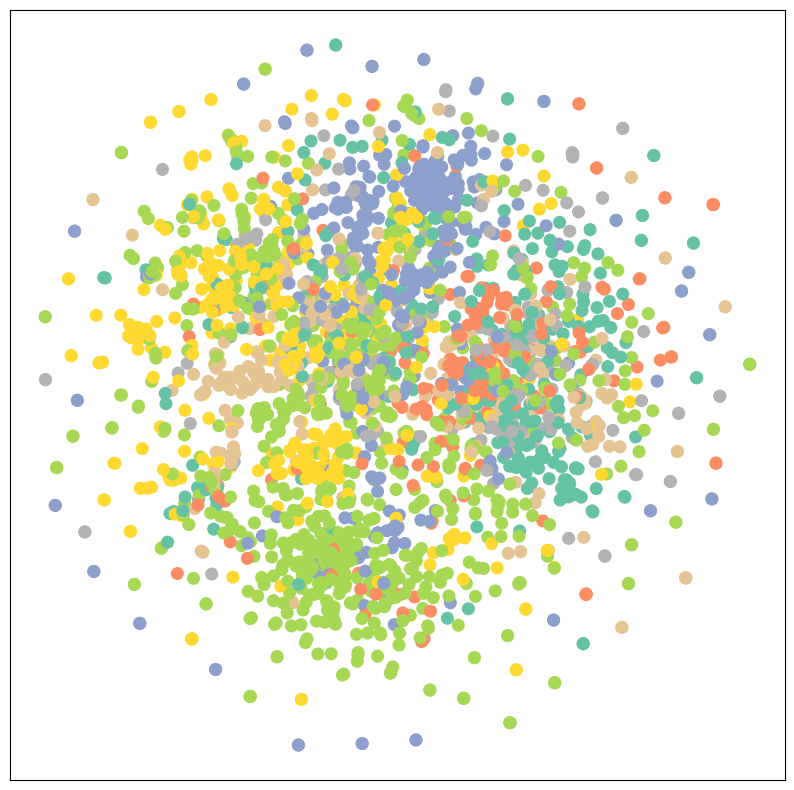
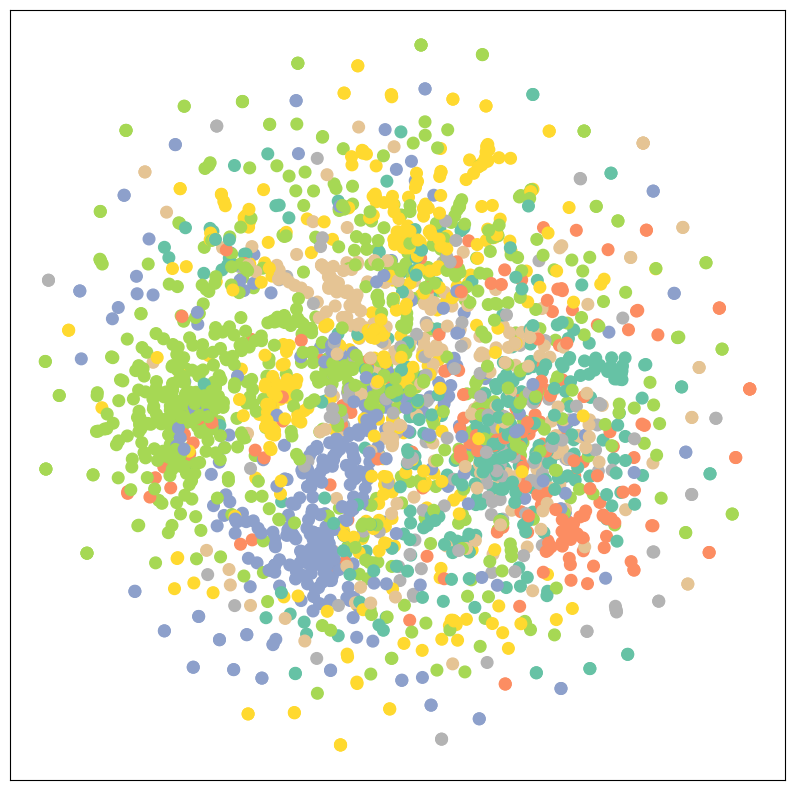
Built site for gh-pages

diff --git a/posts/2023-06-18-Graph-Convoluntional-Layer-from-scratch.html b/posts/2023-06-18-Graph-Convoluntional-Layer-from-scratch.html
@@ -197,9 +197,10 @@ pre > code.sourceCode > span > a:first-child::before { text-decoration: underlin
 
 
 
+<p>In this post I am implementing Graph Convolutional Layer</p>
 <section id="basic-imports" class="level1">
 <h1>Basic Imports</h1>
-<div class="cell" data-execution_count="14">
+<div class="cell" data-execution_count="1">
 <div class="sourceCode cell-code" id="cb1"><pre class="sourceCode python code-with-copy"><code class="sourceCode python"><span id="cb1-1"><a href="#cb1-1" aria-hidden="true" tabindex="-1"></a><span class="im">import</span> pandas <span class="im">as</span> pd</span>
 <span id="cb1-2"><a href="#cb1-2" aria-hidden="true" tabindex="-1"></a><span class="im">import</span> numpy <span class="im">as</span> np</span>
 <span id="cb1-3"><a href="#cb1-3" aria-hidden="true" tabindex="-1"></a><span class="im">import</span> matplotlib.pyplot <span class="im">as</span> plt</span>
@@ -220,10 +221,10 @@ pre > code.sourceCode > span > a:first-child::before { text-decoration: underlin
 </section>
 <section id="importing-planetoid-dataset---cora" class="level1">
 <h1>Importing Planetoid dataset - Cora</h1>
-<div class="cell" data-execution_count="15">
+<div class="cell" data-execution_count="2">
 <div class="sourceCode cell-code" id="cb2"><pre class="sourceCode python code-with-copy"><code class="sourceCode python"><span id="cb2-1"><a href="#cb2-1" aria-hidden="true" tabindex="-1"></a>dataset <span class="op">=</span> Planetoid(root<span class="op">=</span><span class="st">'data/Planetoid'</span>, name<span class="op">=</span><span class="st">'Cora'</span>)</span></code><button title="Copy to Clipboard" class="code-copy-button"><i class="bi"></i></button></pre></div>
 </div>
-<div class="cell" data-execution_count="40">
+<div class="cell" data-execution_count="3">
 <div class="sourceCode cell-code" id="cb3"><pre class="sourceCode python code-with-copy"><code class="sourceCode python"><span id="cb3-1"><a href="#cb3-1" aria-hidden="true" tabindex="-1"></a><span class="kw">def</span> visualize(h, color):</span>
 <span id="cb3-2"><a href="#cb3-2" aria-hidden="true" tabindex="-1"></a>    <span class="co"># Perform t-SNE dimensionality reduction</span></span>
 <span id="cb3-3"><a href="#cb3-3" aria-hidden="true" tabindex="-1"></a>    z <span class="op">=</span> TSNE(n_components<span class="op">=</span><span class="dv">2</span>).fit_transform(h.detach().cpu().numpy())</span>
@@ -238,13 +239,13 @@ pre > code.sourceCode > span > a:first-child::before { text-decoration: underlin
 </section>
 <section id="visulization-of-the-dataset" class="level1">
 <h1>Visulization of the dataset</h1>
-<div class="cell" data-execution_count="41">
+<div class="cell" data-execution_count="4">
 <div class="sourceCode cell-code" id="cb4"><pre class="sourceCode python code-with-copy"><code class="sourceCode python"><span id="cb4-1"><a href="#cb4-1" aria-hidden="true" tabindex="-1"></a>visualize(dataset[<span class="dv">0</span>].x, dataset[<span class="dv">0</span>].y)</span></code><button title="Copy to Clipboard" class="code-copy-button"><i class="bi"></i></button></pre></div>
 <div class="cell-output cell-output-display">
 <p><img src="2023-06-18-Graph-Convoluntional-Layer-from-scratch_files/figure-html/cell-5-output-1.png" class="img-fluid"></p>
 </div>
 </div>
-<div class="cell" data-execution_count="19">
+<div class="cell" data-execution_count="5">
 <div class="sourceCode cell-code" id="cb5"><pre class="sourceCode python code-with-copy"><code class="sourceCode python"><span id="cb5-1"><a href="#cb5-1" aria-hidden="true" tabindex="-1"></a><span class="co"># convert pytorch tensor to networkx graph</span></span>
 <span id="cb5-2"><a href="#cb5-2" aria-hidden="true" tabindex="-1"></a><span class="kw">def</span> to_networkx(data):</span>
 <span id="cb5-3"><a href="#cb5-3" aria-hidden="true" tabindex="-1"></a>    G <span class="op">=</span> nx.Graph()</span>
@@ -252,13 +253,13 @@ pre > code.sourceCode > span > a:first-child::before { text-decoration: underlin
 <span id="cb5-5"><a href="#cb5-5" aria-hidden="true" tabindex="-1"></a>    G.add_edges_from(data.edge_index.t().tolist())</span>
 <span id="cb5-6"><a href="#cb5-6" aria-hidden="true" tabindex="-1"></a>    <span class="cf">return</span> G</span></code><button title="Copy to Clipboard" class="code-copy-button"><i class="bi"></i></button></pre></div>
 </div>
-<div class="cell" data-execution_count="20">
+<div class="cell" data-execution_count="6">
 <div class="sourceCode cell-code" id="cb6"><pre class="sourceCode python code-with-copy"><code class="sourceCode python"><span id="cb6-1"><a href="#cb6-1" aria-hidden="true" tabindex="-1"></a>G <span class="op">=</span> to_networkx(dataset[<span class="dv">0</span>])</span></code><button title="Copy to Clipboard" class="code-copy-button"><i class="bi"></i></button></pre></div>
 </div>
 </section>
 <section id="creating-the-adjacency-matrix" class="level1">
 <h1>Creating the Adjacency Matrix</h1>
-<div class="cell" data-execution_count="23">
+<div class="cell" data-execution_count="7">
 <div class="sourceCode cell-code" id="cb7"><pre class="sourceCode python code-with-copy"><code class="sourceCode python"><span id="cb7-1"><a href="#cb7-1" aria-hidden="true" tabindex="-1"></a><span class="co"># Adjacency matrix</span></span>
 <span id="cb7-2"><a href="#cb7-2" aria-hidden="true" tabindex="-1"></a>A <span class="op">=</span> nx.adjacency_matrix(G).todense()</span>
 <span id="cb7-3"><a href="#cb7-3" aria-hidden="true" tabindex="-1"></a>A <span class="op">=</span> torch.tensor(A, dtype<span class="op">=</span>torch.<span class="bu">float</span>)</span></code><button title="Copy to Clipboard" class="code-copy-button"><i class="bi"></i></button></pre></div>
@@ -269,7 +270,7 @@ pre > code.sourceCode > span > a:first-child::before { text-decoration: underlin
 <p>The GCN layer is defined as follows:</p>
 <p><span class="math inline">\({H}^{(l+1)} = \sigma \left( \mathbf{D}^{-\frac{1}{2}} {\mathbf{\hat{A}}}  \mathbf{D}^{-\frac{1}{2}} \mathbf{H}^{(l)} \mathbf{W}^{(l)} \right)\)</span></p>
 <p>where <span class="math inline">\(\mathbf{H}^{(l)}\)</span> is the <span class="math inline">\(l^{th}\)</span> layer of the GCN, <span class="math inline">\(\mathbf{A}\)</span> is the adjacency matrix, <span class="math inline">\({\mathbf{\hat{A}}}\)</span> is the adjacency matrix with self-connections added, <span class="math inline">\(\mathbf{D}\)</span> is the degree matrix, and <span class="math inline">\(\mathbf{W}^{(l)}\)</span> is the weight matrix for the <span class="math inline">\(l^{th}\)</span> layer.</p>
-<div class="cell" data-execution_count="25">
+<div class="cell" data-execution_count="8">
 <div class="sourceCode cell-code" id="cb8"><pre class="sourceCode python code-with-copy"><code class="sourceCode python"><span id="cb8-1"><a href="#cb8-1" aria-hidden="true" tabindex="-1"></a><span class="kw">class</span> GCN_Layer(nn.Module):</span>
 <span id="cb8-2"><a href="#cb8-2" aria-hidden="true" tabindex="-1"></a>    <span class="kw">def</span> <span class="fu">__init__</span>(<span class="va">self</span>, in_features, out_features):</span>
 <span id="cb8-3"><a href="#cb8-3" aria-hidden="true" tabindex="-1"></a>        <span class="bu">super</span>(GCN_Layer, <span class="va">self</span>).<span class="fu">__init__</span>()</span>
@@ -288,7 +289,7 @@ pre > code.sourceCode > span > a:first-child::before { text-decoration: underlin
 <section id="creating-the-model" class="level1">
 <h1>Creating the model</h1>
 <p>The model consists of two GCN layers and a linear layer for the output. We have used ReLU as the activation function.</p>
-<div class="cell" data-execution_count="33">
+<div class="cell" data-execution_count="9">
 <div class="sourceCode cell-code" id="cb9"><pre class="sourceCode python code-with-copy"><code class="sourceCode python"><span id="cb9-1"><a href="#cb9-1" aria-hidden="true" tabindex="-1"></a><span class="kw">class</span> GNNModel(nn.Module):</span>
 <span id="cb9-2"><a href="#cb9-2" aria-hidden="true" tabindex="-1"></a>    <span class="kw">def</span> <span class="fu">__init__</span>(<span class="va">self</span>, in_features, out_features, classes):</span>
 <span id="cb9-3"><a href="#cb9-3" aria-hidden="true" tabindex="-1"></a>        <span class="bu">super</span>(GNNModel, <span class="va">self</span>).<span class="fu">__init__</span>()</span>
@@ -307,9 +308,9 @@ pre > code.sourceCode > span > a:first-child::before { text-decoration: underlin
 </section>
 <section id="training-the-model" class="level1">
 <h1>Training the model</h1>
-<div class="cell" data-execution_count="51">
-<div class="sourceCode cell-code" id="cb10"><pre class="sourceCode python code-with-copy"><code class="sourceCode python"><span id="cb10-1"><a href="#cb10-1" aria-hidden="true" tabindex="-1"></a>X <span class="op">=</span> torch.tensor(dataset[<span class="dv">0</span>].x, dtype<span class="op">=</span>torch.<span class="bu">float</span>)</span>
-<span id="cb10-2"><a href="#cb10-2" aria-hidden="true" tabindex="-1"></a>y <span class="op">=</span> torch.tensor(dataset[<span class="dv">0</span>].y, dtype<span class="op">=</span>torch.<span class="bu">long</span>)</span>
+<div class="cell" data-execution_count="10">
+<div class="sourceCode cell-code" id="cb10"><pre class="sourceCode python code-with-copy"><code class="sourceCode python"><span id="cb10-1"><a href="#cb10-1" aria-hidden="true" tabindex="-1"></a>X <span class="op">=</span> dataset[<span class="dv">0</span>].x</span>
+<span id="cb10-2"><a href="#cb10-2" aria-hidden="true" tabindex="-1"></a>y <span class="op">=</span> dataset[<span class="dv">0</span>].y</span>
 <span id="cb10-3"><a href="#cb10-3" aria-hidden="true" tabindex="-1"></a>in_features <span class="op">=</span> X.shape[<span class="dv">1</span>]  <span class="co"># Number of input features</span></span>
 <span id="cb10-4"><a href="#cb10-4" aria-hidden="true" tabindex="-1"></a>hidden_dim <span class="op">=</span> <span class="dv">64</span>  <span class="co"># Number of hidden features</span></span>
 <span id="cb10-5"><a href="#cb10-5" aria-hidden="true" tabindex="-1"></a>classes <span class="op">=</span> <span class="dv">7</span>  <span class="co"># Number of classes</span></span>
@@ -336,122 +337,116 @@ pre > code.sourceCode > span > a:first-child::before { text-decoration: underlin
 <span id="cb10-26"><a href="#cb10-26" aria-hidden="true" tabindex="-1"></a>    <span class="co"># Print the loss and accuracy for monitoring</span></span>
 <span id="cb10-27"><a href="#cb10-27" aria-hidden="true" tabindex="-1"></a>    <span class="cf">if</span> (epoch <span class="op">+</span> <span class="dv">1</span>) <span class="op">%</span> <span class="dv">1</span> <span class="op">==</span> <span class="dv">0</span>:</span>
 <span id="cb10-28"><a href="#cb10-28" aria-hidden="true" tabindex="-1"></a>        <span class="bu">print</span>(<span class="ss">f'Epoch [</span><span class="sc">{</span>epoch<span class="op">+</span><span class="dv">1</span><span class="sc">}</span><span class="ss">/</span><span class="sc">{</span>num_epochs<span class="sc">}</span><span class="ss">], Loss: </span><span class="sc">{</span>loss<span class="sc">.</span>item()<span class="sc">:.4f}</span><span class="ss">, Accuracy: </span><span class="sc">{</span>accuracy<span class="sc">.</span>item()<span class="sc">:.4f}</span><span class="ss">'</span>)</span></code><button title="Copy to Clipboard" class="code-copy-button"><i class="bi"></i></button></pre></div>
-<div class="cell-output cell-output-stderr">
-<pre><code>/tmp/ipykernel_18480/3700216626.py:1: UserWarning: To copy construct from a tensor, it is recommended to use sourceTensor.clone().detach() or sourceTensor.clone().detach().requires_grad_(True), rather than torch.tensor(sourceTensor).
-  X = torch.tensor(dataset[0].x, dtype=torch.float)
-/tmp/ipykernel_18480/3700216626.py:2: UserWarning: To copy construct from a tensor, it is recommended to use sourceTensor.clone().detach() or sourceTensor.clone().detach().requires_grad_(True), rather than torch.tensor(sourceTensor).
-  y = torch.tensor(dataset[0].y, dtype=torch.long)</code></pre>
-</div>
 <div class="cell-output cell-output-stdout">
-<pre><code>Epoch [1/100], Loss: 1.9451, Accuracy: 0.1544
-Epoch [2/100], Loss: 1.9375, Accuracy: 0.2585
-Epoch [3/100], Loss: 1.9232, Accuracy: 0.3386
-Epoch [4/100], Loss: 1.8973, Accuracy: 0.3032
-Epoch [5/100], Loss: 1.8595, Accuracy: 0.3024
-Epoch [6/100], Loss: 1.8221, Accuracy: 0.3021
-Epoch [7/100], Loss: 1.7975, Accuracy: 0.3024
-Epoch [8/100], Loss: 1.7573, Accuracy: 0.3619
-Epoch [9/100], Loss: 1.6980, Accuracy: 0.4996
-Epoch [10/100], Loss: 1.6558, Accuracy: 0.5971
-Epoch [11/100], Loss: 1.6148, Accuracy: 0.6300
-Epoch [12/100], Loss: 1.5620, Accuracy: 0.6713
-Epoch [13/100], Loss: 1.5196, Accuracy: 0.6961
-Epoch [14/100], Loss: 1.4932, Accuracy: 0.7212
-Epoch [15/100], Loss: 1.4673, Accuracy: 0.7430
-Epoch [16/100], Loss: 1.4392, Accuracy: 0.7633
-Epoch [17/100], Loss: 1.4154, Accuracy: 0.7722
-Epoch [18/100], Loss: 1.4006, Accuracy: 0.7762
-Epoch [19/100], Loss: 1.3909, Accuracy: 0.7766
-Epoch [20/100], Loss: 1.3782, Accuracy: 0.7884
-Epoch [21/100], Loss: 1.3642, Accuracy: 0.8209
-Epoch [22/100], Loss: 1.3541, Accuracy: 0.8401
-Epoch [23/100], Loss: 1.3437, Accuracy: 0.8431
-Epoch [24/100], Loss: 1.3326, Accuracy: 0.8468
-Epoch [25/100], Loss: 1.3253, Accuracy: 0.8490
-Epoch [26/100], Loss: 1.3207, Accuracy: 0.8479
-Epoch [27/100], Loss: 1.3164, Accuracy: 0.8527
-Epoch [28/100], Loss: 1.3126, Accuracy: 0.8545
-Epoch [29/100], Loss: 1.3102, Accuracy: 0.8564
-Epoch [30/100], Loss: 1.3076, Accuracy: 0.8586
-Epoch [31/100], Loss: 1.3045, Accuracy: 0.8634
-Epoch [32/100], Loss: 1.3019, Accuracy: 0.8648
-Epoch [33/100], Loss: 1.3002, Accuracy: 0.8671
-Epoch [34/100], Loss: 1.2982, Accuracy: 0.8674
-Epoch [35/100], Loss: 1.2962, Accuracy: 0.8693
-Epoch [36/100], Loss: 1.2948, Accuracy: 0.8704
-Epoch [37/100], Loss: 1.2928, Accuracy: 0.8719
-Epoch [38/100], Loss: 1.2893, Accuracy: 0.8741
-Epoch [39/100], Loss: 1.2820, Accuracy: 0.8848
-Epoch [40/100], Loss: 1.2654, Accuracy: 0.9066
-Epoch [41/100], Loss: 1.2517, Accuracy: 0.9206
-Epoch [42/100], Loss: 1.2573, Accuracy: 0.9147
-Epoch [43/100], Loss: 1.2534, Accuracy: 0.9202
-Epoch [44/100], Loss: 1.2437, Accuracy: 0.9287
-Epoch [45/100], Loss: 1.2401, Accuracy: 0.9306
-Epoch [46/100], Loss: 1.2376, Accuracy: 0.9321
-Epoch [47/100], Loss: 1.2363, Accuracy: 0.9324
-Epoch [48/100], Loss: 1.2352, Accuracy: 0.9350
-Epoch [49/100], Loss: 1.2325, Accuracy: 0.9376
-Epoch [50/100], Loss: 1.2295, Accuracy: 0.9394
-Epoch [51/100], Loss: 1.2271, Accuracy: 0.9413
-Epoch [52/100], Loss: 1.2255, Accuracy: 0.9420
-Epoch [53/100], Loss: 1.2252, Accuracy: 0.9424
-Epoch [54/100], Loss: 1.2252, Accuracy: 0.9424
-Epoch [55/100], Loss: 1.2231, Accuracy: 0.9457
-Epoch [56/100], Loss: 1.2214, Accuracy: 0.9468
-Epoch [57/100], Loss: 1.2211, Accuracy: 0.9468
-Epoch [58/100], Loss: 1.2209, Accuracy: 0.9468
-Epoch [59/100], Loss: 1.2200, Accuracy: 0.9479
-Epoch [60/100], Loss: 1.2188, Accuracy: 0.9490
-Epoch [61/100], Loss: 1.2185, Accuracy: 0.9494
-Epoch [62/100], Loss: 1.2184, Accuracy: 0.9501
-Epoch [63/100], Loss: 1.2179, Accuracy: 0.9501
-Epoch [64/100], Loss: 1.2170, Accuracy: 0.9505
-Epoch [65/100], Loss: 1.2165, Accuracy: 0.9505
-Epoch [66/100], Loss: 1.2164, Accuracy: 0.9505
-Epoch [67/100], Loss: 1.2162, Accuracy: 0.9505
-Epoch [68/100], Loss: 1.2159, Accuracy: 0.9509
-Epoch [69/100], Loss: 1.2156, Accuracy: 0.9509
-Epoch [70/100], Loss: 1.2153, Accuracy: 0.9516
-Epoch [71/100], Loss: 1.2151, Accuracy: 0.9520
-Epoch [72/100], Loss: 1.2148, Accuracy: 0.9520
-Epoch [73/100], Loss: 1.2147, Accuracy: 0.9520
-Epoch [74/100], Loss: 1.2145, Accuracy: 0.9516
-Epoch [75/100], Loss: 1.2143, Accuracy: 0.9520
-Epoch [76/100], Loss: 1.2142, Accuracy: 0.9520
-Epoch [77/100], Loss: 1.2140, Accuracy: 0.9520
-Epoch [78/100], Loss: 1.2139, Accuracy: 0.9520
-Epoch [79/100], Loss: 1.2137, Accuracy: 0.9520
-Epoch [80/100], Loss: 1.2136, Accuracy: 0.9520
-Epoch [81/100], Loss: 1.2134, Accuracy: 0.9524
-Epoch [82/100], Loss: 1.2132, Accuracy: 0.9531
-Epoch [83/100], Loss: 1.2130, Accuracy: 0.9535
-Epoch [84/100], Loss: 1.2128, Accuracy: 0.9535
-Epoch [85/100], Loss: 1.2126, Accuracy: 0.9531
-Epoch [86/100], Loss: 1.2126, Accuracy: 0.9531
-Epoch [87/100], Loss: 1.2125, Accuracy: 0.9538
-Epoch [88/100], Loss: 1.2125, Accuracy: 0.9538
-Epoch [89/100], Loss: 1.2124, Accuracy: 0.9535
-Epoch [90/100], Loss: 1.2123, Accuracy: 0.9535
-Epoch [91/100], Loss: 1.2123, Accuracy: 0.9535
-Epoch [92/100], Loss: 1.2122, Accuracy: 0.9535
-Epoch [93/100], Loss: 1.2121, Accuracy: 0.9535
-Epoch [94/100], Loss: 1.2120, Accuracy: 0.9538
-Epoch [95/100], Loss: 1.2120, Accuracy: 0.9538
-Epoch [96/100], Loss: 1.2119, Accuracy: 0.9538
-Epoch [97/100], Loss: 1.2118, Accuracy: 0.9542
-Epoch [98/100], Loss: 1.2117, Accuracy: 0.9542
-Epoch [99/100], Loss: 1.2116, Accuracy: 0.9542
-Epoch [100/100], Loss: 1.2115, Accuracy: 0.9542</code></pre>
+<pre><code>Epoch [1/100], Loss: 1.9459, Accuracy: 0.0702
+Epoch [2/100], Loss: 1.9383, Accuracy: 0.3316
+Epoch [3/100], Loss: 1.9238, Accuracy: 0.3024
+Epoch [4/100], Loss: 1.8966, Accuracy: 0.3021
+Epoch [5/100], Loss: 1.8567, Accuracy: 0.3021
+Epoch [6/100], Loss: 1.8174, Accuracy: 0.3021
+Epoch [7/100], Loss: 1.7879, Accuracy: 0.3024
+Epoch [8/100], Loss: 1.7328, Accuracy: 0.4346
+Epoch [9/100], Loss: 1.6781, Accuracy: 0.5835
+Epoch [10/100], Loss: 1.6422, Accuracy: 0.5735
+Epoch [11/100], Loss: 1.5881, Accuracy: 0.6141
+Epoch [12/100], Loss: 1.5457, Accuracy: 0.6647
+Epoch [13/100], Loss: 1.5212, Accuracy: 0.6747
+Epoch [14/100], Loss: 1.5006, Accuracy: 0.6765
+Epoch [15/100], Loss: 1.4805, Accuracy: 0.6839
+Epoch [16/100], Loss: 1.4607, Accuracy: 0.6994
+Epoch [17/100], Loss: 1.4392, Accuracy: 0.7448
+Epoch [18/100], Loss: 1.4178, Accuracy: 0.7744
+Epoch [19/100], Loss: 1.4071, Accuracy: 0.7740
+Epoch [20/100], Loss: 1.4041, Accuracy: 0.7707
+Epoch [21/100], Loss: 1.3950, Accuracy: 0.7758
+Epoch [22/100], Loss: 1.3820, Accuracy: 0.7855
+Epoch [23/100], Loss: 1.3722, Accuracy: 0.7954
+Epoch [24/100], Loss: 1.3673, Accuracy: 0.7939
+Epoch [25/100], Loss: 1.3631, Accuracy: 0.7984
+Epoch [26/100], Loss: 1.3546, Accuracy: 0.8102
+Epoch [27/100], Loss: 1.3429, Accuracy: 0.8312
+Epoch [28/100], Loss: 1.3326, Accuracy: 0.8475
+Epoch [29/100], Loss: 1.3278, Accuracy: 0.8471
+Epoch [30/100], Loss: 1.3254, Accuracy: 0.8504
+Epoch [31/100], Loss: 1.3180, Accuracy: 0.8512
+Epoch [32/100], Loss: 1.3070, Accuracy: 0.8634
+Epoch [33/100], Loss: 1.2922, Accuracy: 0.8911
+Epoch [34/100], Loss: 1.2784, Accuracy: 0.9044
+Epoch [35/100], Loss: 1.2733, Accuracy: 0.9114
+Epoch [36/100], Loss: 1.2694, Accuracy: 0.9114
+Epoch [37/100], Loss: 1.2593, Accuracy: 0.9202
+Epoch [38/100], Loss: 1.2501, Accuracy: 0.9258
+Epoch [39/100], Loss: 1.2448, Accuracy: 0.9302
+Epoch [40/100], Loss: 1.2408, Accuracy: 0.9321
+Epoch [41/100], Loss: 1.2374, Accuracy: 0.9346
+Epoch [42/100], Loss: 1.2349, Accuracy: 0.9361
+Epoch [43/100], Loss: 1.2327, Accuracy: 0.9369
+Epoch [44/100], Loss: 1.2304, Accuracy: 0.9394
+Epoch [45/100], Loss: 1.2284, Accuracy: 0.9417
+Epoch [46/100], Loss: 1.2271, Accuracy: 0.9428
+Epoch [47/100], Loss: 1.2264, Accuracy: 0.9424
+Epoch [48/100], Loss: 1.2256, Accuracy: 0.9428
+Epoch [49/100], Loss: 1.2243, Accuracy: 0.9435
+Epoch [50/100], Loss: 1.2225, Accuracy: 0.9457
+Epoch [51/100], Loss: 1.2208, Accuracy: 0.9472
+Epoch [52/100], Loss: 1.2198, Accuracy: 0.9490
+Epoch [53/100], Loss: 1.2187, Accuracy: 0.9501
+Epoch [54/100], Loss: 1.2178, Accuracy: 0.9509
+Epoch [55/100], Loss: 1.2170, Accuracy: 0.9520
+Epoch [56/100], Loss: 1.2161, Accuracy: 0.9531
+Epoch [57/100], Loss: 1.2150, Accuracy: 0.9549
+Epoch [58/100], Loss: 1.2143, Accuracy: 0.9549
+Epoch [59/100], Loss: 1.2135, Accuracy: 0.9553
+Epoch [60/100], Loss: 1.2129, Accuracy: 0.9564
+Epoch [61/100], Loss: 1.2123, Accuracy: 0.9572
+Epoch [62/100], Loss: 1.2116, Accuracy: 0.9572
+Epoch [63/100], Loss: 1.2110, Accuracy: 0.9575
+Epoch [64/100], Loss: 1.2104, Accuracy: 0.9579
+Epoch [65/100], Loss: 1.2096, Accuracy: 0.9586
+Epoch [66/100], Loss: 1.2092, Accuracy: 0.9594
+Epoch [67/100], Loss: 1.2087, Accuracy: 0.9594
+Epoch [68/100], Loss: 1.2083, Accuracy: 0.9594
+Epoch [69/100], Loss: 1.2079, Accuracy: 0.9601
+Epoch [70/100], Loss: 1.2076, Accuracy: 0.9597
+Epoch [71/100], Loss: 1.2073, Accuracy: 0.9601
+Epoch [72/100], Loss: 1.2070, Accuracy: 0.9601
+Epoch [73/100], Loss: 1.2067, Accuracy: 0.9605
+Epoch [74/100], Loss: 1.2065, Accuracy: 0.9605
+Epoch [75/100], Loss: 1.2063, Accuracy: 0.9609
+Epoch [76/100], Loss: 1.2061, Accuracy: 0.9612
+Epoch [77/100], Loss: 1.2060, Accuracy: 0.9612
+Epoch [78/100], Loss: 1.2058, Accuracy: 0.9612
+Epoch [79/100], Loss: 1.2057, Accuracy: 0.9612
+Epoch [80/100], Loss: 1.2054, Accuracy: 0.9616
+Epoch [81/100], Loss: 1.2053, Accuracy: 0.9616
+Epoch [82/100], Loss: 1.2051, Accuracy: 0.9616
+Epoch [83/100], Loss: 1.2050, Accuracy: 0.9616
+Epoch [84/100], Loss: 1.2050, Accuracy: 0.9616
+Epoch [85/100], Loss: 1.2049, Accuracy: 0.9616
+Epoch [86/100], Loss: 1.2049, Accuracy: 0.9616
+Epoch [87/100], Loss: 1.2048, Accuracy: 0.9616
+Epoch [88/100], Loss: 1.2047, Accuracy: 0.9616
+Epoch [89/100], Loss: 1.2046, Accuracy: 0.9616
+Epoch [90/100], Loss: 1.2044, Accuracy: 0.9616
+Epoch [91/100], Loss: 1.2042, Accuracy: 0.9623
+Epoch [92/100], Loss: 1.2041, Accuracy: 0.9620
+Epoch [93/100], Loss: 1.2041, Accuracy: 0.9620
+Epoch [94/100], Loss: 1.2040, Accuracy: 0.9620
+Epoch [95/100], Loss: 1.2039, Accuracy: 0.9623
+Epoch [96/100], Loss: 1.2038, Accuracy: 0.9627
+Epoch [97/100], Loss: 1.2037, Accuracy: 0.9627
+Epoch [98/100], Loss: 1.2036, Accuracy: 0.9627
+Epoch [99/100], Loss: 1.2036, Accuracy: 0.9627
+Epoch [100/100], Loss: 1.2036, Accuracy: 0.9627</code></pre>
 </div>
 </div>
-<div class="cell" data-execution_count="52">
-<div class="sourceCode cell-code" id="cb13"><pre class="sourceCode python code-with-copy"><code class="sourceCode python"><span id="cb13-1"><a href="#cb13-1" aria-hidden="true" tabindex="-1"></a>output <span class="op">=</span> gcn_layer(A, X)</span>
-<span id="cb13-2"><a href="#cb13-2" aria-hidden="true" tabindex="-1"></a>y_pred <span class="op">=</span> output.argmax(dim<span class="op">=</span><span class="dv">1</span>)</span>
-<span id="cb13-3"><a href="#cb13-3" aria-hidden="true" tabindex="-1"></a>y <span class="op">=</span> dataset[<span class="dv">0</span>].y</span>
-<span id="cb13-4"><a href="#cb13-4" aria-hidden="true" tabindex="-1"></a><span class="bu">print</span>(<span class="ss">f'Accuracy of GCN model: </span><span class="sc">{</span><span class="bu">float</span>(((y <span class="op">==</span> y_pred).<span class="bu">sum</span>()) <span class="op">/</span> <span class="bu">len</span>(y))<span class="op">*</span><span class="dv">100</span><span class="sc">}</span><span class="ss">'</span>)</span></code><button title="Copy to Clipboard" class="code-copy-button"><i class="bi"></i></button></pre></div>
+<div class="cell" data-execution_count="11">
+<div class="sourceCode cell-code" id="cb12"><pre class="sourceCode python code-with-copy"><code class="sourceCode python"><span id="cb12-1"><a href="#cb12-1" aria-hidden="true" tabindex="-1"></a>output <span class="op">=</span> gcn_layer(A, X)</span>
+<span id="cb12-2"><a href="#cb12-2" aria-hidden="true" tabindex="-1"></a>y_pred <span class="op">=</span> output.argmax(dim<span class="op">=</span><span class="dv">1</span>)</span>
+<span id="cb12-3"><a href="#cb12-3" aria-hidden="true" tabindex="-1"></a>y <span class="op">=</span> dataset[<span class="dv">0</span>].y</span>
+<span id="cb12-4"><a href="#cb12-4" aria-hidden="true" tabindex="-1"></a><span class="bu">print</span>(<span class="ss">f'Accuracy of GCN model: </span><span class="sc">{</span><span class="bu">float</span>(((y <span class="op">==</span> y_pred).<span class="bu">sum</span>()) <span class="op">/</span> <span class="bu">len</span>(y))<span class="op">*</span><span class="dv">100</span><span class="sc">}</span><span class="ss">'</span>)</span></code><button title="Copy to Clipboard" class="code-copy-button"><i class="bi"></i></button></pre></div>
 <div class="cell-output cell-output-stdout">
-<pre><code>Accuracy of GCN model: 95.42097449302673</code></pre>
+<pre><code>Accuracy of GCN model: 96.27031087875366</code></pre>
 </div>
 </div>
 

diff --git a/index.html b/index.html
@@ -170,7 +170,7 @@ ul.task-list li input[type="checkbox"] {
 
 <div class="quarto-listing quarto-listing-container-default" id="listing-listing">
 <div class="list quarto-listing-default">
-<div class="quarto-post image-right" data-index="0" data-categories="ML,GNN" data-listing-date-sort="1687026600000" data-listing-file-modified-sort="1687092147457" data-listing-date-modified-sort="NaN" data-listing-reading-time-sort="1">
+<div class="quarto-post image-right" data-index="0" data-categories="ML,GNN" data-listing-date-sort="1687026600000" data-listing-file-modified-sort="1687092825908" data-listing-date-modified-sort="NaN" data-listing-reading-time-sort="1">
 <div class="thumbnail">
 <p><a href="./posts/2023-06-18-Graph-Convoluntional-Layer-from-scratch.html"> <p class="card-img-top"><img src="posts/2023-06-18-Graph-Convoluntional-Layer-from-scratch_files/figure-html/cell-5-output-1.png"  class="thumbnail-image card-img"/></p> </a></p>
 </div>
@@ -193,7 +193,7 @@ GNN
 </div>
 <a href="./posts/2023-06-18-Graph-Convoluntional-Layer-from-scratch.html">
 <div class="listing-description">
-The GCN layer is defined as follows:
+In this post I am implementing Graph Convolutional Layer
 </div>
 </a>
 </div>
